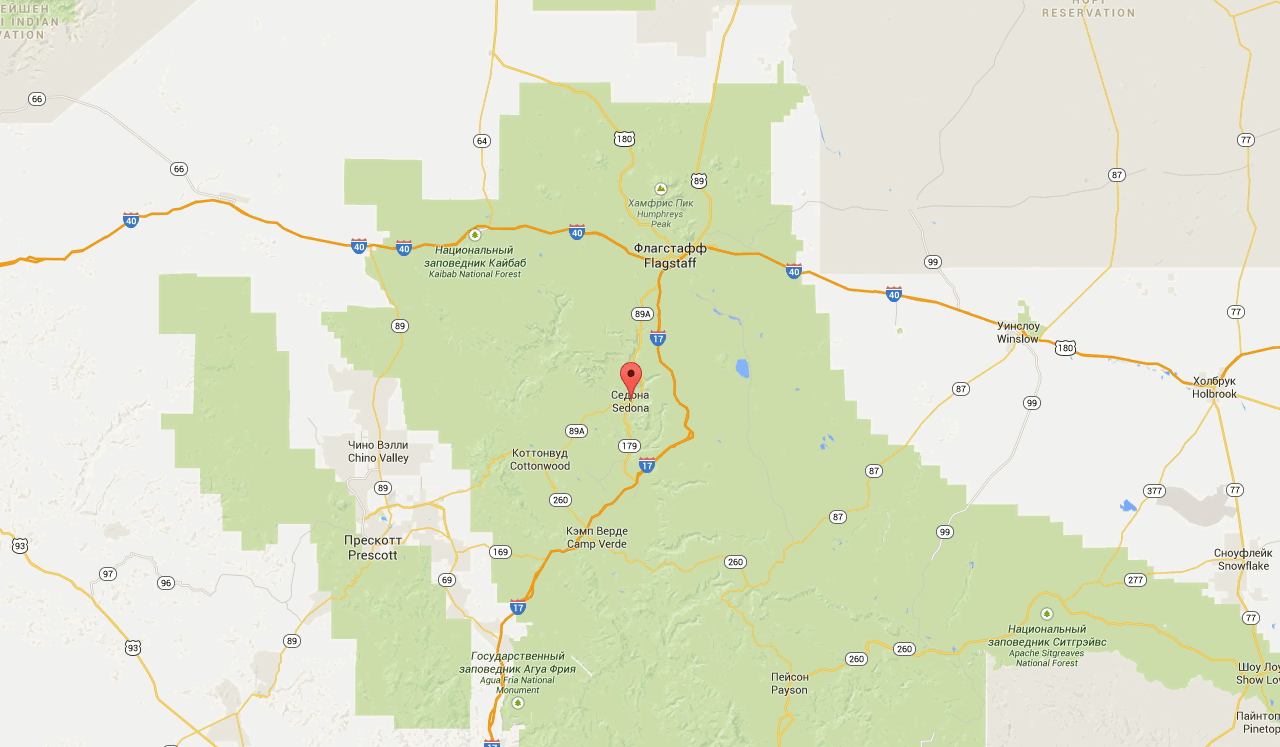
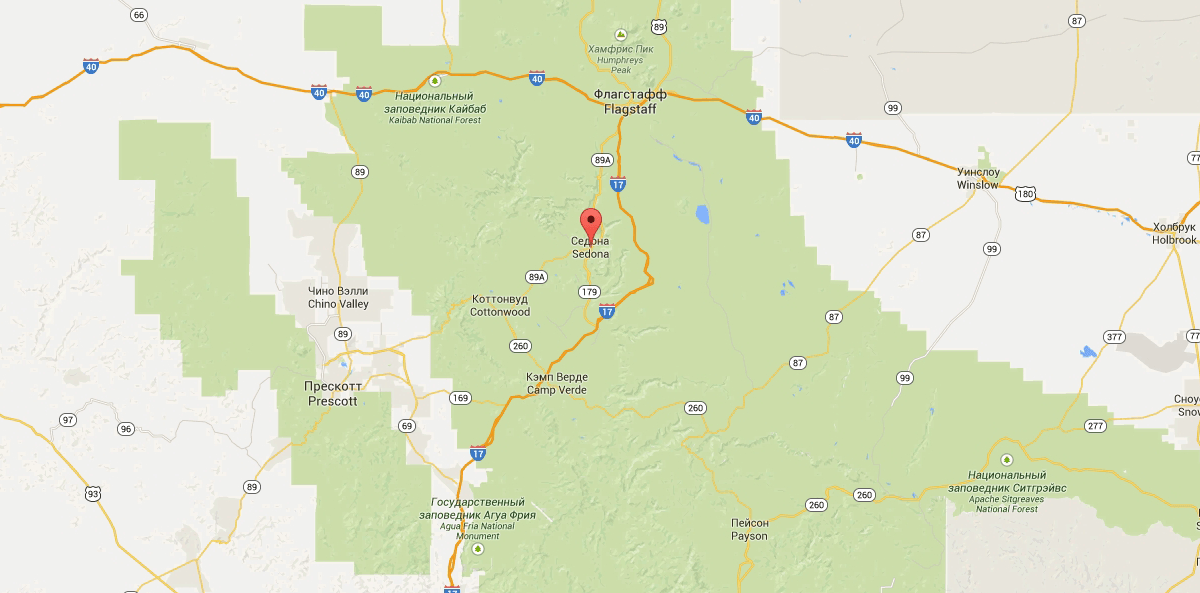
Правки карты и feature1

diff --git a/css/style.css b/css/style.css
@@ -126,7 +126,7 @@ a {
 
 .map {
 	position: relative;
-	height: 592px;
+	height: 593px;
 	overflow: hidden;
 }
 
@@ -134,9 +134,9 @@ a {
 	position: absolute;
 	top: 50%;
 
-	max-width: 100%;
-	height: auto;
-	transform: translateY(-59%);
+	width: 1200px;
+	height: 593px;
+	transform: translateY(-50%);
 }
 
 .search-info {
@@ -474,13 +474,13 @@ body {
 
 .feature1 {
 	display: flex;
-	position: relative;
+	
     
 	height: 256px;
 	margin: 0;
 	padding: 0;
 
-	overflow: hidden;
+	
 }
 
 .feature1-description {
@@ -496,13 +496,18 @@ body {
 	width: 282px;
 }
 
-.sedona-picture img {
-	position: absolute;
-	top: 50%;
+.sedona-picture { 
+	position: relative; 
+	overflow: hidden; 
+} 
 
-	max-width: 100%;
-	height: auto;
-	transform: translateY(-50%);
+.sedona-picture img { 
+	position: absolute; 
+	top: 50%; 
+
+	max-width: 100%; 
+	height: auto; 
+	transform: translateY(-50%); 
 }
 
 .recommendations {
@@ -937,6 +942,7 @@ body {
 
 .footer {
 	position: absolute;
+	width: 100%;
 	bottom: 0;
 
 	background-color: rgba(255, 255, 255, 0.9);

diff --git a/index.html b/index.html
@@ -92,7 +92,7 @@
         	<br>и мы покажем вам лучшие предложения гостиниц в Седоне
         </p>
         <div class="map">
-          <img src="img/map.png" width="1280" height="747" alt="Карта штата">
+          <img src="img/map.png" width="1200" height="593" alt="Карта штата">
         </div> 
         <button class="button search-button" type="button">Поиск гостиницы в Седоне</button>	
         <form class="search-form" action="https://htmlacademy.ru/intensive/htmlcss" method="post">        	
